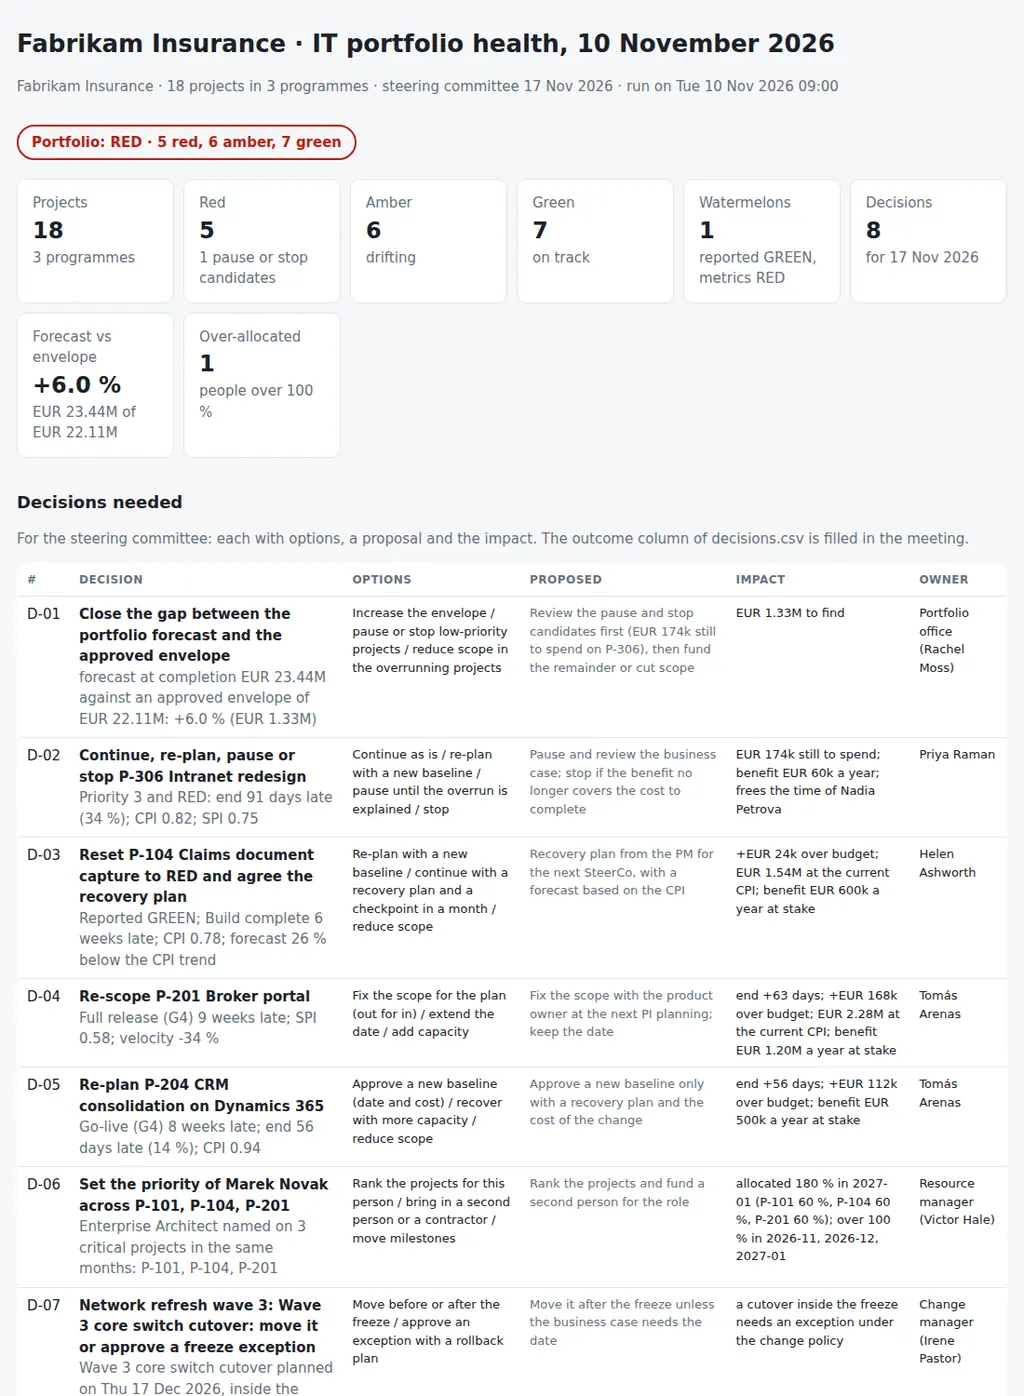
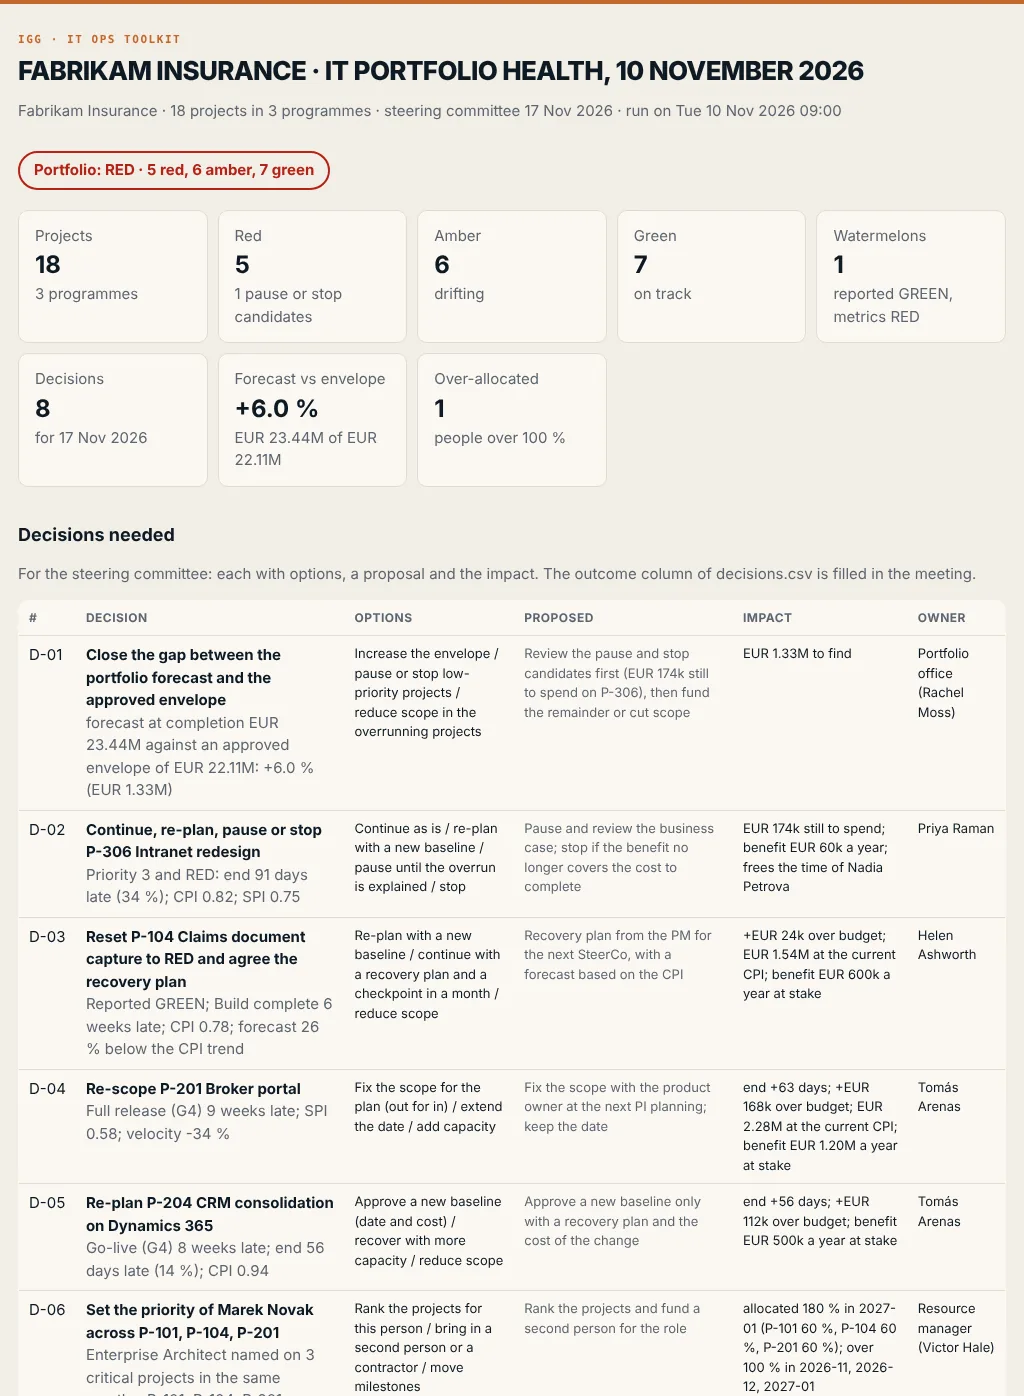
Report: IGG colours (paper, ink and the orange accent) and a new screenshot

diff --git a/portfoliohealth/report.py b/portfoliohealth/report.py
@@ -180,11 +180,11 @@ def pack_md(d: Data, rv: dict, title: str) -> str:
 # ---------------------------------------------------------------- html
 
 CSS = """
-:root{--bg:#f6f7f8;--card:#fff;--ink:#1b2128;--muted:#66717c;--line:#e2e5e9;--ok:#1e7a4c;--warn:#a46200;--bad:#b42318;--info:#0b6bcb;
---g:#cfeedd;--a:#fbe6bd;--r:#f8d2cd;--n:#eef0f2}
-@media (prefers-color-scheme:dark){:root{--bg:#13171b;--card:#1b2127;--ink:#e7eaee;--muted:#9aa5b0;--line:#2b333b;--ok:#4cc38a;--warn:#f0a83a;
---bad:#f2685c;--info:#5aa9f0;--g:#173527;--a:#3d2f12;--r:#45201d;--n:#232a31}}
-*{box-sizing:border-box}body{margin:0;background:var(--bg);color:var(--ink);font:15px/1.5 system-ui,-apple-system,Segoe UI,sans-serif}
+:root{--bg:#f2eee6;--card:#fbf8f3;--ink:#0e1a24;--muted:#5d6670;--line:#e2dccf;--ok:#1e7a4c;--warn:#a46200;--bad:#b42318;--info:#1f5f8b;
+--g:#cfeedd;--a:#fbe6bd;--r:#f8d2cd;--n:#e8e2d6}
+@media (prefers-color-scheme:dark){:root{--bg:#0e1a24;--card:#142331;--ink:#f2eee6;--muted:#a9b3bb;--line:#24364a;--ok:#4cc38a;--warn:#f0a83a;
+--bad:#f2685c;--info:#5aa9f0;--g:#173527;--a:#3d2f12;--r:#45201d;--n:#1b2b3b}}
+*{box-sizing:border-box}body{border-top:4px solid #c4672b}h1{font-weight:800;letter-spacing:-.025em;text-transform:uppercase;line-height:1.05}h1::before{content:"IGG · IT Ops toolkit";display:block;font:600 11px/1.4 ui-monospace,SFMono-Regular,Menlo,monospace;letter-spacing:.14em;text-transform:uppercase;color:#c4672b;margin-bottom:10px}body{margin:0;background:var(--bg);color:var(--ink);font:15px/1.5 system-ui,-apple-system,Segoe UI,sans-serif}
 main{max-width:1100px;margin:0 auto;padding:28px 18px 60px}h1{font-size:26px;margin:0 0 4px}h2{font-size:18px;margin:34px 0 12px}h3{font-size:15px;margin:0}
 .muted{color:var(--muted)}.tiles{display:grid;grid-template-columns:repeat(auto-fit,minmax(160px,1fr));gap:10px;margin-top:20px}
 .tile{background:var(--card);border:1px solid var(--line);border-radius:10px;padding:14px 16px}.tile b{display:block;font-size:24px}
